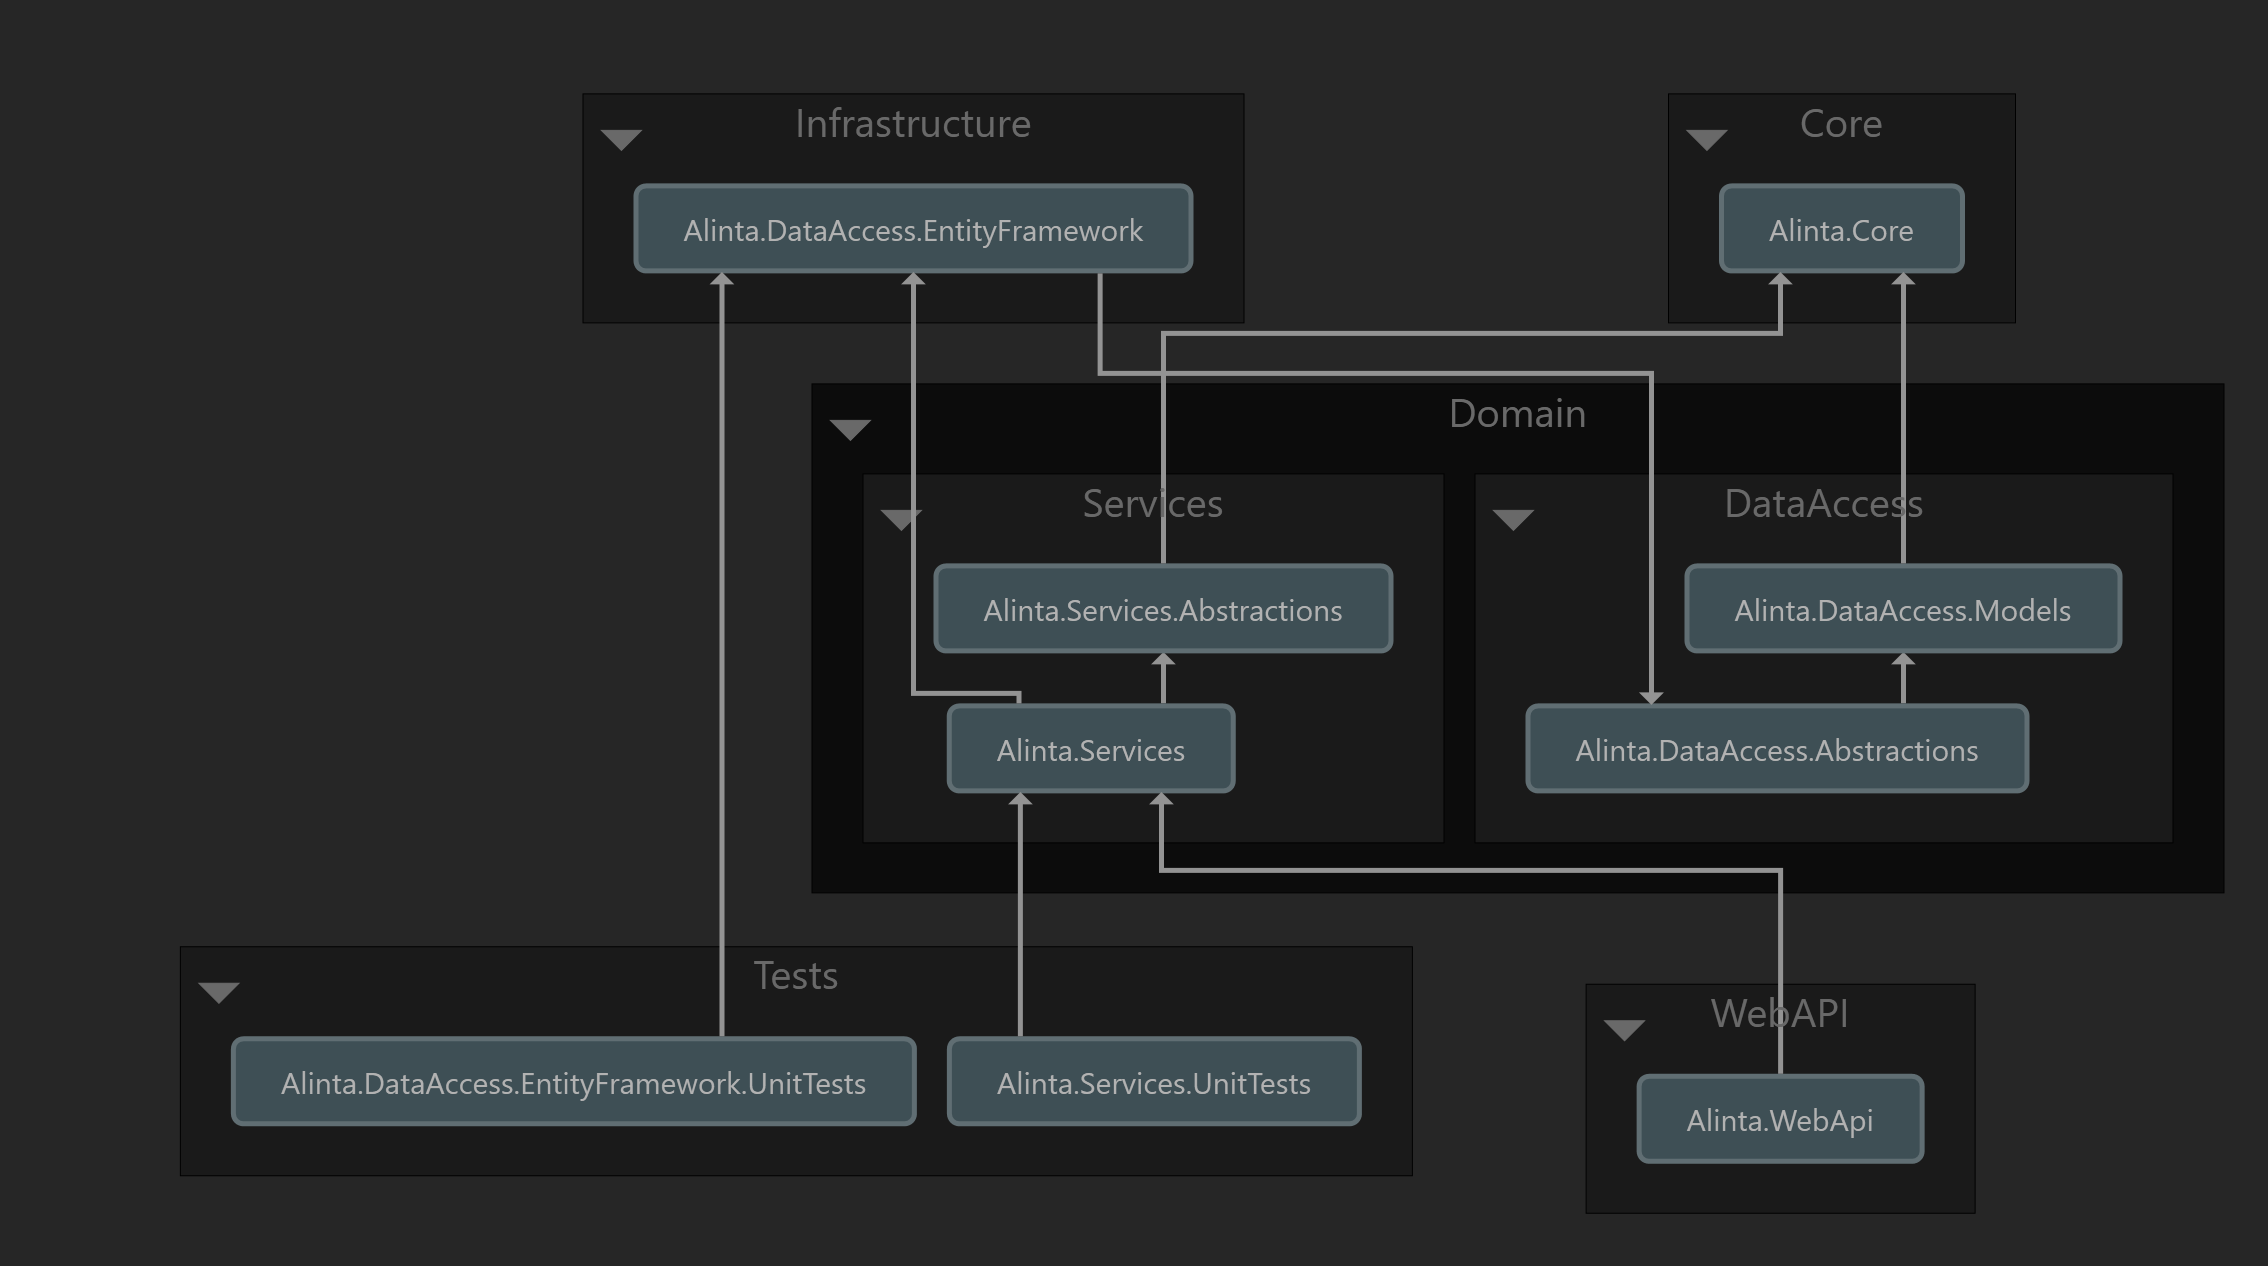
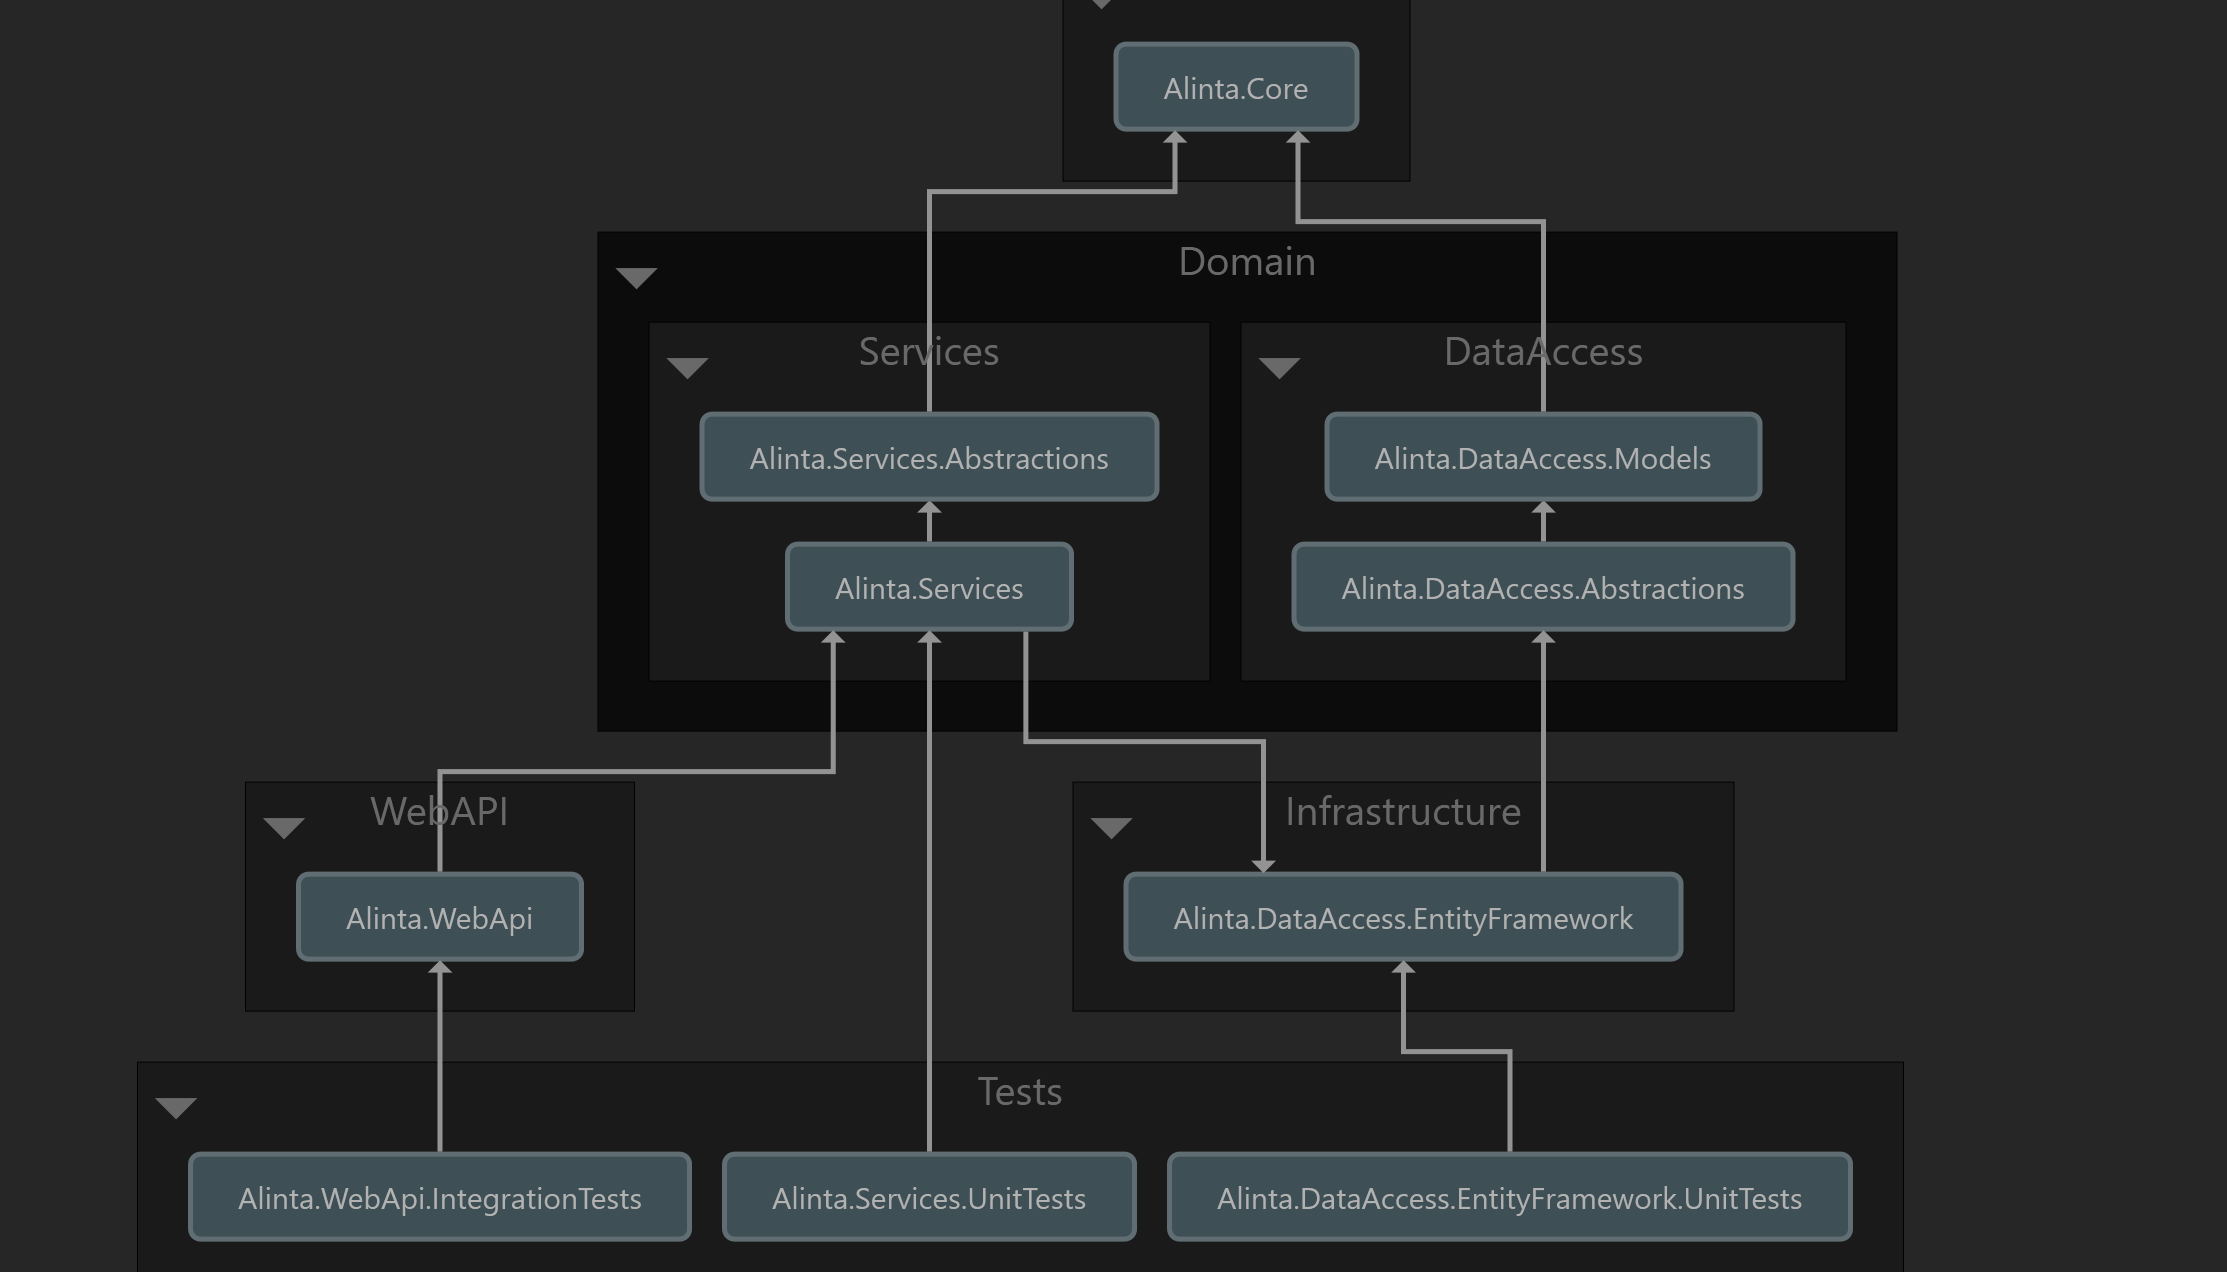
Adding the delete and update related integration tests and, updated the project dependency graph with the new integration test project.

diff --git a/Alinta.WebApi.IntegrationTests/CustomersControllerTests.cs b/Alinta.WebApi.IntegrationTests/CustomersControllerTests.cs
@@ -2,6 +2,7 @@ using System;
 using System.Collections.Generic;
 using System.Net;
 using System.Net.Http;
+using System.Text;
 using System.Threading.Tasks;
 using Alinta.WebApi.DTO.Requests;
 using Alinta.WebApi.Models;
@@ -12,7 +13,7 @@ using Xunit;
 
 namespace Alinta.WebApi.IntegrationTests
 {
-    public class CustomersControllerTests: IClassFixture<WebApplicationFactory<Startup>>
+    public class CustomersControllerTests: IClassFixture<WebApplicationFactory<Startup>>, IDisposable
     {
         private const string BaseUrl = @"/api/v1/customers";
         private readonly HttpClient _client;
@@ -70,21 +71,22 @@ namespace Alinta.WebApi.IntegrationTests
         }
 
         [Fact]
-        public async Task When_There_are_Customers_Which_Matches_The_Name_Filter_They_Will_Be_Returned()
+        public async Task When_There_Are_Customers_Which_Matches_The_Name_Filter_They_Will_Be_Returned()
         {
             //
             // Arrange
             //
+            var commonName = Guid.NewGuid().ToString();
             var johnSnow = new CreateCustomerRequest
             {
-                FirstName = "john",
+                FirstName = commonName,
                 LastName = "snow",
                 DateOfBirth = new DateTime(1982, 1, 1)
             };
             var littleJohn = new CreateCustomerRequest
             {
                 FirstName = "little",
-                LastName = "john",
+                LastName = commonName,
                 DateOfBirth = new DateTime(1982, 1, 1)
             };
             await _client.PostAsJsonAsync(BaseUrl, johnSnow);
@@ -92,7 +94,7 @@ namespace Alinta.WebApi.IntegrationTests
             //
             // Act
             //
-            var httpResponse = await _client.GetAsync($"{BaseUrl}?name=john");
+            var httpResponse = await _client.GetAsync($"{BaseUrl}?name={commonName}");
             //
             // Assert
             //
@@ -121,11 +123,176 @@ namespace Alinta.WebApi.IntegrationTests
             //
             // Act
             //
-            var httpResponse = await _client.GetAsync($"{BaseUrl}?name=john");
+            var httpResponse = await _client.GetAsync($"{BaseUrl}?name={Guid.NewGuid().ToString()}");
             //
             // Assert
             //
            Assert.Equal(HttpStatusCode.NotFound, httpResponse.StatusCode);
+        }
+
+        [Fact]
+        public async Task Invalid_Edit_Customer_Request_Must_Fail()
+        {
+            //
+            // Arrange
+            //
+            var request = new UpdateCustomerRequest
+            {
+                Id = "",
+                FirstName = ""
+            };
+            //
+            // Act
+            //
+            var httpResponse = await _client.PutAsync("", null);
+            //
+            // Assert
+            //
+            Assert.False(httpResponse.IsSuccessStatusCode);
+        }
+
+        [Fact]
+        public async Task Customers_Who_Are_Not_Existing_Cannot_Be_Updated()
+        {
+            //
+            // Arrange
+            //
+            var request = new UpdateCustomerRequest
+            {
+                Id = "",
+                FirstName = ""
+            };
+            //
+            // Act
+            //
+            var httpResponse = await _client.PutAsync("", null);
+            //
+            // Assert
+            //
+            Assert.False(httpResponse.IsSuccessStatusCode);
+        }
+
+        [Fact]
+        public async Task With_Valid_Update_Customer_Request_Existing_Customer_Can_Be_Updated()
+        {
+            //
+            // Arrange
+            //
+            var johnSnow = new CreateCustomerRequest
+            {
+                FirstName = "john",
+                LastName = "snow",
+                DateOfBirth = new DateTime(2000, 1, 1)
+            };
+            var httpResponse = await _client.PostAsJsonAsync(@"/api/v1/customers", johnSnow);
+            var createdCustomerDto = JsonConvert.DeserializeObject<DisplayCustomerDto>(await httpResponse.Content.ReadAsStringAsync());
+            var id = createdCustomerDto.Id;
+
+            var updateRequest = new UpdateCustomerRequest
+            {
+                Id = id,
+                FirstName = "John",
+                LastName = "Connor",
+                DateOfBirth = new DateTime(1990, 1, 1)
+            };  
+            var httpRequest = new HttpRequestMessage(HttpMethod.Put, BaseUrl)
+            {
+                Content = new StringContent(JsonConvert.SerializeObject(updateRequest), Encoding.UTF8, "application/json")
+            };
+            //
+            // Act
+            //
+            httpResponse = await _client.SendAsync(httpRequest);
+            //
+            // Assert
+            //
+            httpResponse.EnsureSuccessStatusCode();
+            var updatedCustomerDto = JsonConvert.DeserializeObject<DisplayCustomerDto>(await httpResponse.Content.ReadAsStringAsync());
+
+            Assert.NotNull(updatedCustomerDto);
+            Assert.Equal(id, updatedCustomerDto.Id);
+            Assert.Equal("John Connor", updatedCustomerDto.Name);
+        }
+
+        [Fact]
+        public async Task Invalid_Delete_Customer_Request_Must_Fail()
+        {
+            //
+            // Arrange
+            //
+            var request = new DeleteCustomerRequest
+            {
+                CustomerId = ""
+            };
+            //
+            // Act
+            //
+            var httpResponse = await _client.SendAsync(new HttpRequestMessage(HttpMethod.Delete, BaseUrl)
+            {
+                Content = new StringContent(JsonConvert.SerializeObject(request), Encoding.UTF8, "application/json")
+            });
+            //
+            // Assert
+            //
+            Assert.False(httpResponse.IsSuccessStatusCode);
+        }
+
+        [Fact]
+        public async Task Customers_Who_Are_Not_Existing_Cannot_Be_Deleted()
+        {
+            //
+            // Arrange
+            //
+            var request = new DeleteCustomerRequest
+            {
+                CustomerId = Guid.NewGuid().ToString()
+            };
+            //
+            // Act
+            //
+            var httpResponse = await _client.SendAsync(new HttpRequestMessage(HttpMethod.Delete, BaseUrl)
+            {
+                Content = new StringContent(JsonConvert.SerializeObject(request), Encoding.UTF8, "application/json")
+            });
+            //
+            // Assert
+            //
+            Assert.False(httpResponse.IsSuccessStatusCode);
+        }
+
+        [Fact]
+        public async Task With_Valid_Request_Existing_Customer_Can_Be_Deleted()
+        {
+            //
+            // Arrange
+            //
+            var httpResponse = await _client.PostAsJsonAsync(BaseUrl, new CreateCustomerRequest
+            {
+                FirstName = "john",
+                LastName = "snow",
+                DateOfBirth = new DateTime(2000, 1, 1)
+            });
+            var createdCustomerDto = JsonConvert.DeserializeObject<DisplayCustomerDto>(await httpResponse.Content.ReadAsStringAsync());
+            var deleteRequest = new DeleteCustomerRequest
+            {
+                CustomerId = createdCustomerDto.Id
+            };
+            //
+            // Act
+            //
+            httpResponse = await _client.SendAsync(new HttpRequestMessage(HttpMethod.Delete, BaseUrl)
+            {
+                Content = new StringContent(JsonConvert.SerializeObject(deleteRequest), Encoding.UTF8, "application/json")
+            });
+            //
+            // Assert
+            //
+            httpResponse.EnsureSuccessStatusCode();
+        }
+
+        public void Dispose()
+        {
+            _client?.Dispose();
         }
     }
 }
